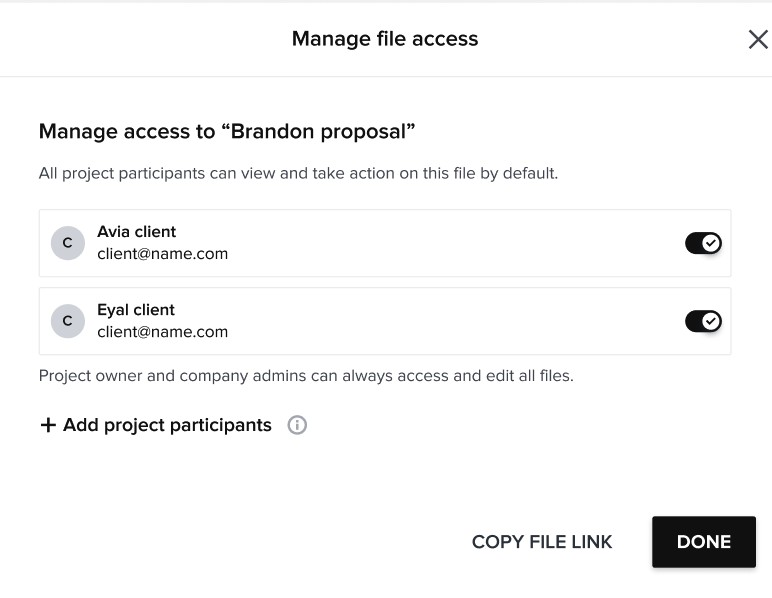
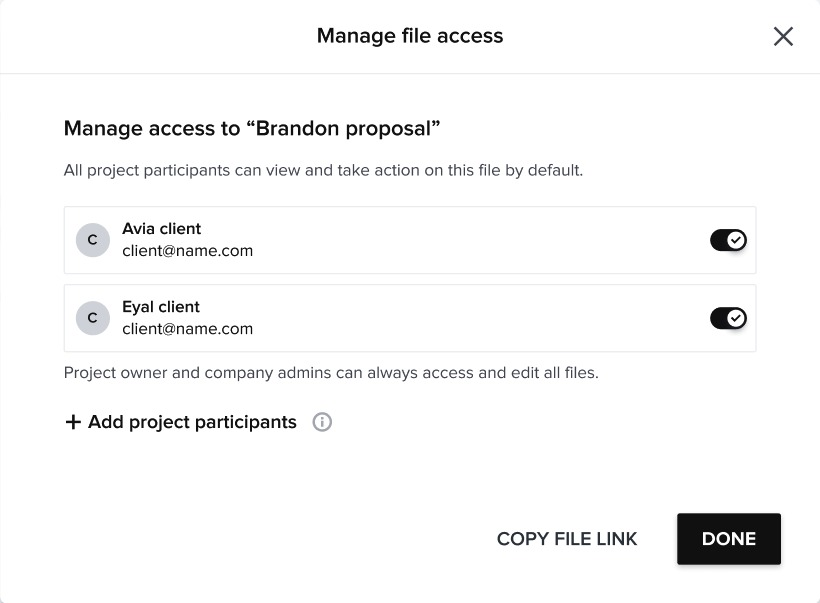
Sharpen Selective Communication case images and center figures
Replace low-res INTERFACE dropdown with the hi-res shipped Share screen,
re-crop the flow map larger from the 2000px board, swap in the full uncut
Manage file access modal (chosen direction), and center constrained figures.

diff --git a/Case - Selective Communication.dc.html b/Case - Selective Communication.dc.html
@@ -117,23 +117,23 @@
       <p style="font:400 17px/1.75 'Hanken Grotesk',sans-serif;color:#3a3a34;margin:0 0 28px">“Who sees what” could live in more than one place. I explored two directions before committing.</p>
       <div class="zoom" style="width:100%;overflow:hidden;border:1px solid #14141216;border-radius:8px"><picture style="width:100%;display:block"><source srcset="assets/selective-communication/concept-inline.webp" type="image/webp"><img src="assets/selective-communication/concept-inline.jpg" loading="lazy" alt="Concept one: the Share via email and Share via link screens with authentication and per-recipient access controls built directly into the sharing flow" style="width:100%;display:block"></picture></div>
       <p style="font:400 12px/1.5 'IBM Plex Mono',monospace;color:#a3a39a;margin:12px 2px 30px">Direction one, permissions inline: authentication and per-recipient access built right into the Share-via-email and Share-via-link screens.</p>
-      <div class="zoom" style="max-width:600px;overflow:hidden;border:1px solid #14141216;border-radius:8px"><picture style="width:100%;display:block"><source srcset="assets/selective-communication/concept-modal.webp" type="image/webp"><img src="assets/selective-communication/concept-modal.jpg" loading="lazy" alt="Concept two: a lean Share via link screen paired with a separate Manage file access modal that toggles per-participant access" style="width:100%;display:block"></picture></div>
-      <p style="font:400 12px/1.5 'IBM Plex Mono',monospace;color:#a3a39a;margin:12px 2px 28px">Direction two, a separate modal: a lean share screen with a dedicated “Manage file access” dialog for per-participant control.</p>
+      <div class="zoom" style="max-width:600px;margin:0 auto;overflow:hidden;border:1px solid #14141216;border-radius:8px"><picture style="width:100%;display:block"><source srcset="assets/selective-communication/concept-modal.webp" type="image/webp"><img src="assets/selective-communication/concept-modal.jpg" loading="lazy" alt="Concept two: a lean Share via link screen paired with a separate Manage file access modal that toggles per-participant access" style="width:100%;display:block"></picture></div>
+      <p style="font:400 12px/1.5 'IBM Plex Mono',monospace;color:#a3a39a;margin:12px 2px 28px;text-align:center">Direction two, the one I chose: a dedicated “Manage file access” dialog for per-participant control, kept separate from the send flow.</p>
       <p style="font:400 17px/1.75 'Hanken Grotesk',sans-serif;color:#3a3a34;margin:0">The shipped design kept the best of both: recipients and authentication inline, where the decision gets made, and a separate Manage file access modal for the finer-grained, per-person control.</p>
     </div>
 
     <div style="padding:52px 0;border-top:1px solid #14141212">
       <p style="font:500 11px/1 'IBM Plex Mono',monospace;letter-spacing:.16em;color:#a3a39a;margin:0 0 22px">DESIGN CHOICES</p>
       <p style="font:400 17px/1.75 'Hanken Grotesk',sans-serif;color:#3a3a34;margin:0 0 28px">The complexity came from several directions at once: different permission levels inside an account, different needs for clients versus collaborators, and different norms across industries, where a wedding planner's project isn't structured like a university's.</p>
-      <div class="zoom" style="max-width:408px;margin:0 auto;overflow:hidden;border:1px solid #14141216;border-radius:8px"><picture style="width:100%;display:block"><source srcset="assets/selective-communication/comms-flowmap.webp" type="image/webp"><img src="assets/selective-communication/comms-flowmap.jpg" loading="lazy" alt="Project-communication permission flows: View and Send branch into files, messages, feed items, replies and shared files, then into which participants can see them and whether they joined before or after the project started" style="width:100%;display:block"></picture></div>
+      <div class="zoom" style="max-width:520px;margin:0 auto;overflow:hidden;border:1px solid #14141216;border-radius:8px"><picture style="width:100%;display:block"><source srcset="assets/selective-communication/comms-flowmap.webp" type="image/webp"><img src="assets/selective-communication/comms-flowmap.jpg" loading="lazy" alt="Project-communication permission flows: View and Send branch into files, messages, feed items, replies and shared files, then into which participants can see them and whether they joined before or after the project started" style="width:100%;display:block"></picture></div>
       <p style="font:400 12px/1.5 'IBM Plex Mono',monospace;color:#a3a39a;margin:12px 2px 0;text-align:center">The permission flows I mapped: every interaction type, down to whether someone added mid-project should see what came before. Who sees what was the hard part; the UI was the easy part.</p>
     </div>
 
     <div style="padding:52px 0;border-top:1px solid #14141212">
       <p style="font:500 11px/1 'IBM Plex Mono',monospace;letter-spacing:.16em;color:#a3a39a;margin:0 0 22px">INTERFACE</p>
-      <p style="font:400 17px/1.75 'Hanken Grotesk',sans-serif;color:#3a3a34;margin:0 0 28px">The shipped entry point keeps the decision close to the work: Share opens straight from a file, offering email, link, or direct access management: the front door to “who can see this.”</p>
-      <div class="zoom" style="max-width:500px;margin:0 auto;overflow:hidden;border:1px solid #14141216;border-radius:8px"><picture style="width:100%;display:block"><source srcset="assets/selective-communication/share-entry.webp" type="image/webp"><img src="assets/selective-communication/share-entry.jpg" loading="lazy" alt="Opening Share from a file in the editor: a menu offering share by email, share with link, or manage file access" style="width:100%;display:block"></picture></div>
-      <p style="font:400 12px/1.5 'IBM Plex Mono',monospace;color:#a3a39a;margin:12px 2px 0;text-align:center">Opening Share from a file — the entry point into who can view it, before the recipient picker.</p>
+      <p style="font:400 17px/1.75 'Hanken Grotesk',sans-serif;color:#3a3a34;margin:0 0 28px">The shipped share screen puts every decision in one place: who receives the file, whether they authenticate with a code before opening it, and a direct link to manage per-person access, all before anything sends.</p>
+      <div class="zoom" style="width:100%;overflow:hidden;border:1px solid #14141216;border-radius:8px"><picture style="width:100%;display:block"><source srcset="assets/selective-communication/share-screen.webp" type="image/webp"><img src="assets/selective-communication/share-screen.jpg" loading="lazy" alt="The shipped Share file screen: a Share via email tab with an authentication toggle, per-recipient email chips, a Who can view this file link, and a Manage file access entry" style="width:100%;display:block"></picture></div>
+      <p style="font:400 12px/1.5 'IBM Plex Mono',monospace;color:#a3a39a;margin:12px 2px 0">The shipped Share screen: per-recipient sending, an authentication toggle for sensitive files, “Who can view this file?”, and a Manage file access entry.</p>
     </div>
 
     <div style="padding:52px 0;border-top:1px solid #14141212">
